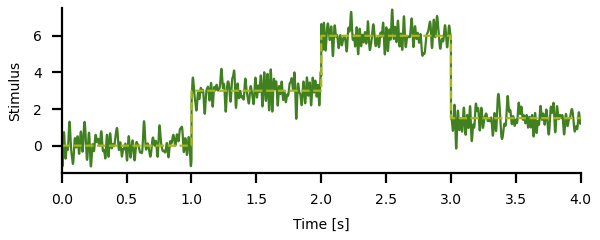
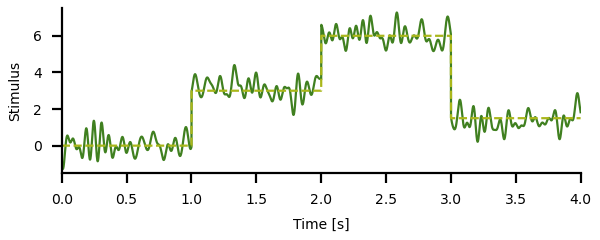
[meanvariance] rate to mean stimulus

diff --git a/meanvariance/meanvariance.py b/meanvariance/meanvariance.py
@@ -128,20 +128,31 @@ def whitenoise(cflow, cfup, dt, duration, rng=np.random):
     return noise
 
 
-def plot_meanstimulus(ax):
-    dt = 0.001              # integration time step in seconds
-    tmax = 4.0              # stimulus duration in seconds
-    cutoff = 50.0           # cutoff frequency of stimulus in Hertz
+def plot_meanstimulus(axs, axr):
+    dt = 0.001                    # integration time step in seconds
+    tmax = 4.0                    # stimulus duration in seconds
+    cutoff = 20.0                 # cutoff frequency of stimulus in Hertz
+    T = 1.0                       # duration of segements with constant mean in seconds
+    means = [0.0, 3.0, 6.0, 1.5]  # mean stimulus values for each segment
     stimulus = 0.5*whitenoise(0.0, cutoff, dt, tmax)
     time = np.arange(len(stimulus))*dt
     mean = np.zeros(len(stimulus))
-    mean[(time>1.0) & (time<=2.0)] += 3.0
-    mean[(time>2.0) & (time<=3.0)] += 6.0
-    mean[(time>3.0) & (time<=4.0)] += 1.5
+    for k, m in enumerate(means):
+        mean[(time>k*T) & (time<=(k+1)*T)] += m
     stimulus += mean
-    ax.plot(time, stimulus)
-    ax.set_xlabel('Time [s]')
-    ax.set_ylabel('Stimulus')
+    # response of non adapting neuron:
+    rate0, _ = adaptation(time, stimulus, alpha=0.0, taua=0.5)
+    # response of adapting neuron:
+    rate, _ = adaptation(time, stimulus, alpha=0.2, taua=0.5)
+    # plot:
+    axs.plot(time, stimulus)
+    axs.set_xlabel('Time [s]')
+    axs.set_ylabel('Stimulus')
+    axr.plot(time, rate0, label='non adapting')
+    axr.plot(time, rate, label='adapting')
+    axr.set_xlabel('Time [s]')
+    axr.set_ylabel('Spike frequency [Hz]')
+    axr.legend(loc='upper left')
     
 
 def meanvariance_demo():
@@ -149,7 +160,7 @@ def meanvariance_demo():
     """
     plt.rcParams['axes.xmargin'] = 0.0
     fig, axs = plt.subplots(2, 2, constrained_layout=True)
-    plot_meanstimulus(axs[0,0])
+    plot_meanstimulus(axs[0,0], axs[1,0])
     plt.show()
 
         

diff --git a/meanvariance/meanvarianceplots.py b/meanvariance/meanvarianceplots.py
@@ -9,16 +9,17 @@ from plotstyle import figwidth, colors
 
 
 def plot_meanstimulus():
-    dt = 0.001              # integration time step in seconds
-    tmax = 4.0              # stimulus duration in seconds
-    cutoff = 50.0           # highest frequency in stimulus in Hertz
+    dt = 0.001                    # integration time step in seconds
+    tmax = 4.0                    # stimulus duration in seconds
+    cutoff = 20.0                 # cutoff frequency of stimulus in Hertz
+    T = 1.0                       # duration of segements with constant mean in seconds
+    means = [0.0, 3.0, 6.0, 1.5]  # mean stimulus values for each segment
     rng = np.random.RandomState(583)
-    stimulus = 0.5*mv.whitenoise(0.0, cutoff, dt, tmax)
+    stimulus = 0.5*mv.whitenoise(0.0, cutoff, dt, tmax, rng)
     time = np.arange(len(stimulus))*dt
     mean = np.zeros(len(stimulus))
-    mean[(time>1.0) & (time<=2.0)] += 3.0
-    mean[(time>2.0) & (time<=3.0)] += 6.0
-    mean[(time>3.0) & (time<=4.0)] += 1.5
+    for k, m in enumerate(means):
+        mean[(time>k*T) & (time<=(k+1)*T)] += m
     stimulus += mean
     fig, ax = plt.subplots(figsize=(figwidth, 0.4*figwidth))
     ax.plot(time, stimulus, color=colors['green'])
@@ -27,6 +28,18 @@ def plot_meanstimulus():
     ax.set_xlabel('Time [s]')
     ax.set_ylabel('Stimulus')
     fig.savefig('meanvariance-meanstimulus')
+    # response:
+    rate0, _ = mv.adaptation(time, stimulus, alpha=0.0, taua=0.5)
+    rate, _ = mv.adaptation(time, stimulus, alpha=0.2, taua=0.5)
+    # plot:
+    fig, ax = plt.subplots(figsize=(figwidth, 0.4*figwidth))
+    ax.plot(time, rate0, color=colors['cyan'], label='non adapting')
+    ax.plot(time, rate, color=colors['blue'], label='adapting')
+    ax.set_ylim(0.0, 200.0)
+    ax.set_xlabel('Time [s]')
+    ax.set_ylabel('Spike frequency [Hz]')
+    ax.legend(loc='upper left')
+    fig.savefig('meanvariance-meanresponse')
     
         
 if __name__ == "__main__":

diff --git a/meanvariance/README.md b/meanvariance/README.md
@@ -15,25 +15,53 @@ as the respective code are briefly described. See the
 ## Adaptation to the mean
 
 Let's generate a stimulus with stepwise different mean values. For
-this we generate a longer white-noise stimulus and a corresponding
+this we create a longer white-noise stimulus and a corresponding
 array with the mean values that then is added to the noise stimulus.
 
 ``` py
-dt = 0.001              # integration time step in seconds
-tmax = 4.0              # stimulus duration in seconds
-cutoff = 50.0           # cutoff frequency of stimulus in Hertz
+dt = 0.001                    # integration time step in seconds
+tmax = 4.0                    # stimulus duration in seconds
+cutoff = 20.0                 # cutoff frequency of stimulus in Hertz
+T = 1.0                       # duration of segements with constant mean in seconds
+means = [0.0, 3.0, 6.0, 1.5]  # mean stimulus values for each segment
+# white noise stimulus:
 stimulus = 0.5*whitenoise(0.0, cutoff, dt, tmax)
 time = np.arange(len(stimulus))*dt
+# array with means:
 mean = np.zeros(len(stimulus))
-mean[(time>1.0) & (time<=2.0)] += 3.0
-mean[(time>2.0) & (time<=3.0)] += 6.0
-mean[(time>3.0) & (time<=4.0)] += 1.5
+for k, m in enumerate(means):
+    mean[(time>k*T) & (time<=(k+1)*T)] += m
+# add mean values to stimulus:
 stimulus += mean
+# plot:
 ax.plot(time, stimulus)
 ax.plot(time, mean)
 ```
 
 ![meanstimulus](meanvariance-meanstimulus.png)
+
+Compute the spike-frequency response of a non-adaptating neuron
+(&#120572; = 0)
+``` py
+rate0, _ = adaptation(time, stimulus, alpha=0.0, taua=0.5)
+```
+and of a strongly adapting neuron (&#120572; = 0.2) to this stimulus
+``` py
+rate, _ = adaptation(time, stimulus, alpha=0.2, taua=0.5)
+```
+and plot the resulting spike frequencies:
+
+![meanresponse](meanvariance-meanresponse.png)
+
+Spike-frequency adaptation removes most of the different mean values,
+but not completely. The stronger the adaptation (higher &#120572;),
+the more the mean values will be attenuated. Because of the non-linear
+shape of the neuron's *f-I* curves (spike frequencies cannot be
+negative), parts of the stimulus below the mean are cut out. Whenever
+the stimuls mean switches to higher values, the neuron transiently
+responds with a high spike frequency that then decays to lower levels.
+When the mean is switched to lower values, the neuron ceases firing
+until it recovers from adaptation.
 
 
 ## Computing the amplitude modulation
